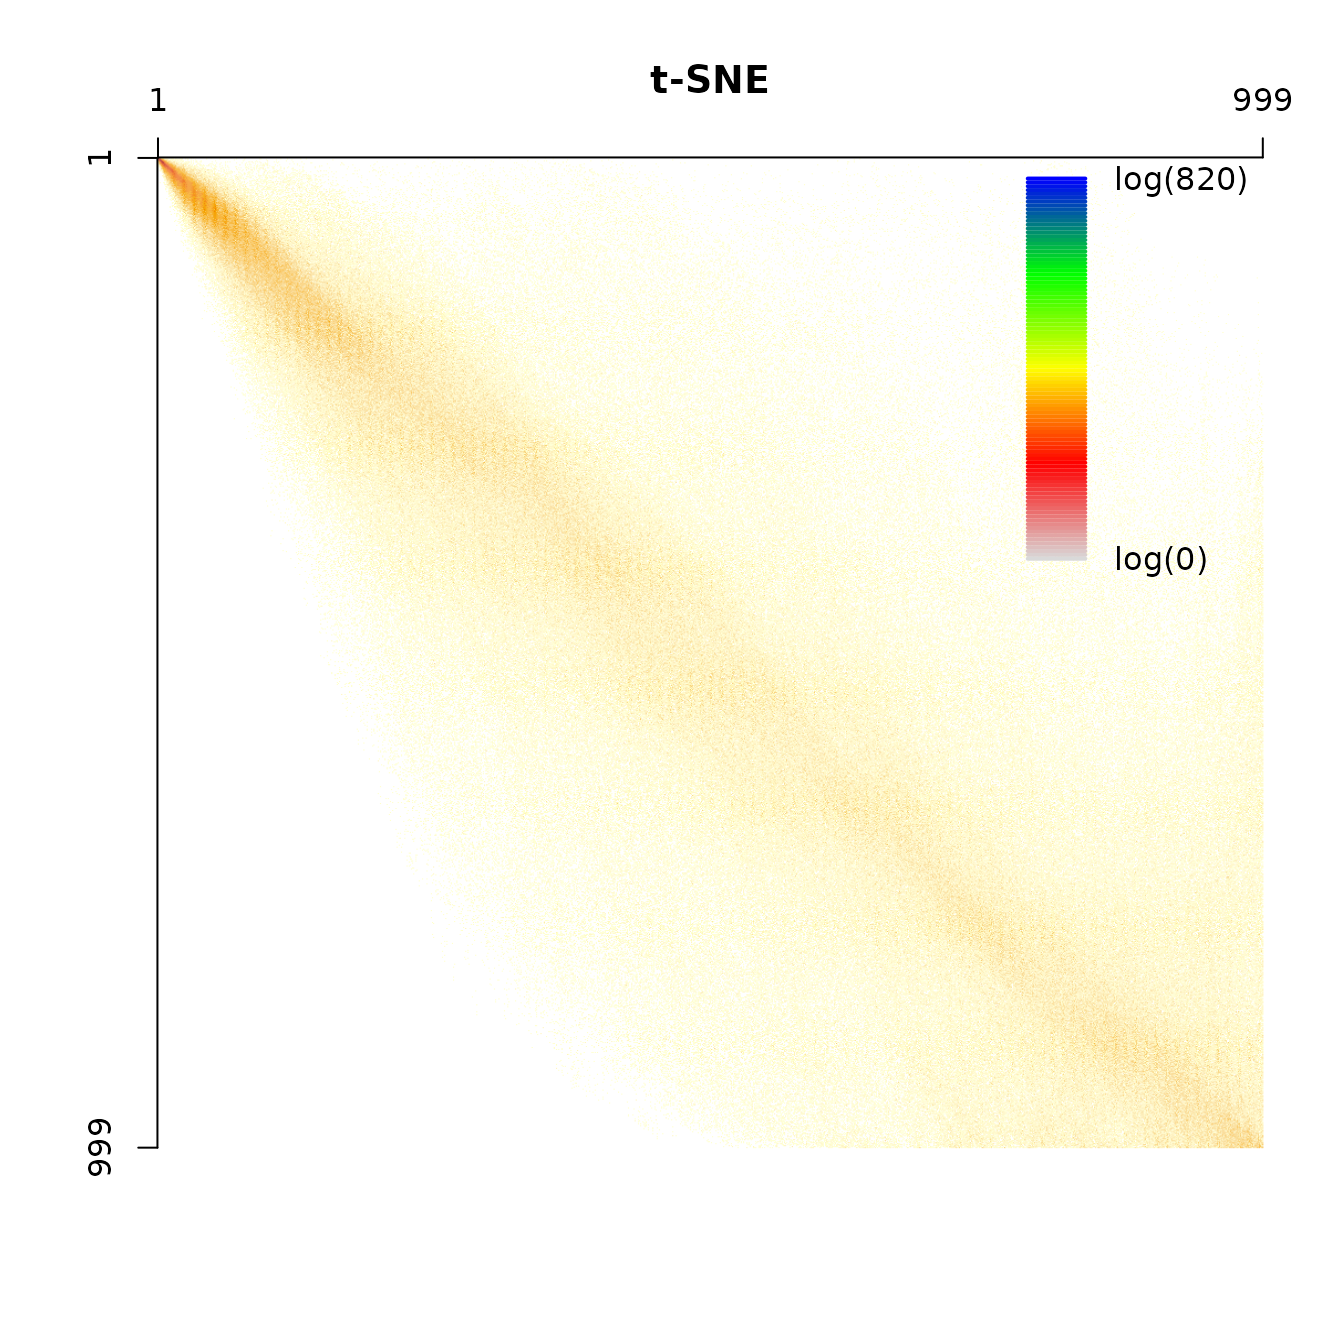
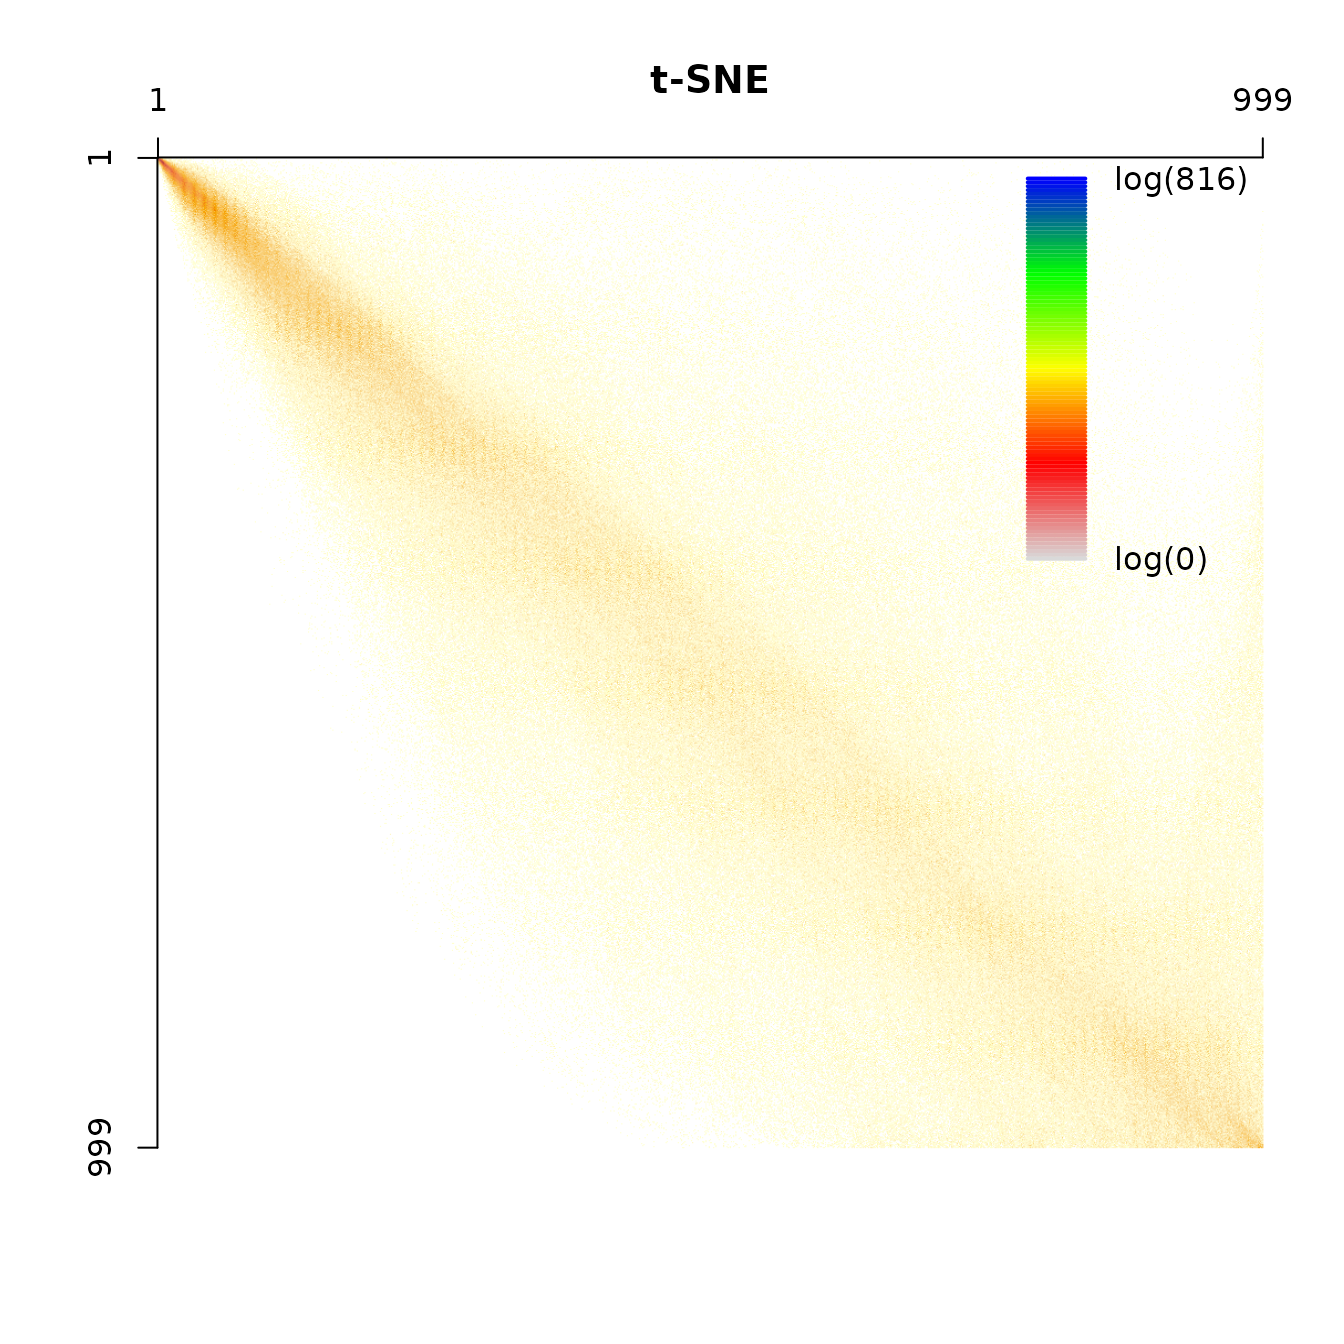
Deploying to gh-pages from @ gdkrmr/coRanking@86b1fec0feef7a577c72be95234efc40c2cd6f7c 🚀

Changed region(s): [[0.125, 0.125, 0.9375, 0.875]]

diff --git a/articles/coranking.html b/articles/coranking.html
@@ -163,16 +163,16 @@
 <em>t-SNE</em>:
 <ul>
 <li><span class="math inline">\(K_\text{max} = 4\)</span></li>
-<li><span class="math inline">\(Q_\text{local} = 0.8407083\)</span></li>
-<li><span class="math inline">\(Q_\text{global} = 0.8640597\)</span></li>
+<li><span class="math inline">\(Q_\text{local} = 0.8400417\)</span></li>
+<li><span class="math inline">\(Q_\text{global} = 0.8696464\)</span></li>
 </ul>
 </li>
 <li>
 <em>PCA</em>:
 <ul>
-<li><span class="math inline">\(K_\text{max} = 53\)</span></li>
-<li><span class="math inline">\(Q_\text{local} = 0.5234583\)</span></li>
-<li><span class="math inline">\(Q_\text{global} = 0.829\)</span></li>
+<li><span class="math inline">\(K_\text{max} = 81\)</span></li>
+<li><span class="math inline">\(Q_\text{local} = 0.5580426\)</span></li>
+<li><span class="math inline">\(Q_\text{global} = 0.8395193\)</span></li>
 </ul>
 </li>
 </ul>

diff --git a/index.html b/index.html
@@ -137,7 +137,7 @@
 <div class="dev-status">
 <h2 data-toc-skip>Dev status</h2>
 <ul class="list-unstyled">
-<li><a href="https://github.com/gdkrmr/coRanking/actions/workflows/R-CMD-check.yaml" class="external-link"><img src="https://github.com/gdkrmr/coRanking/actions/workflows/R-CMD-check.yaml/badge.svg" alt="R-CMD-check"></a></li>
+<li><a href="https://github.com/gdkrmr/DRR/actions/workflows/r.yml" class="external-link"><img src="https://github.com/gdkrmr/DRR/actions/workflows/r.yml/badge.svg" alt="R"></a></li>
 <li><a href="https://cran.r-project.org/package=coRanking" class="external-link"><img src="http://www.r-pkg.org/badges/version/coRanking" alt="CRAN_Status_Badge"></a></li>
 <li><a href="https://doi.org/10.5281/zenodo.3365908" class="external-link"><img src="https://zenodo.org/badge/DOI/10.5281/zenodo.3365908.svg" alt="DOI"></a></li>
 </ul>
